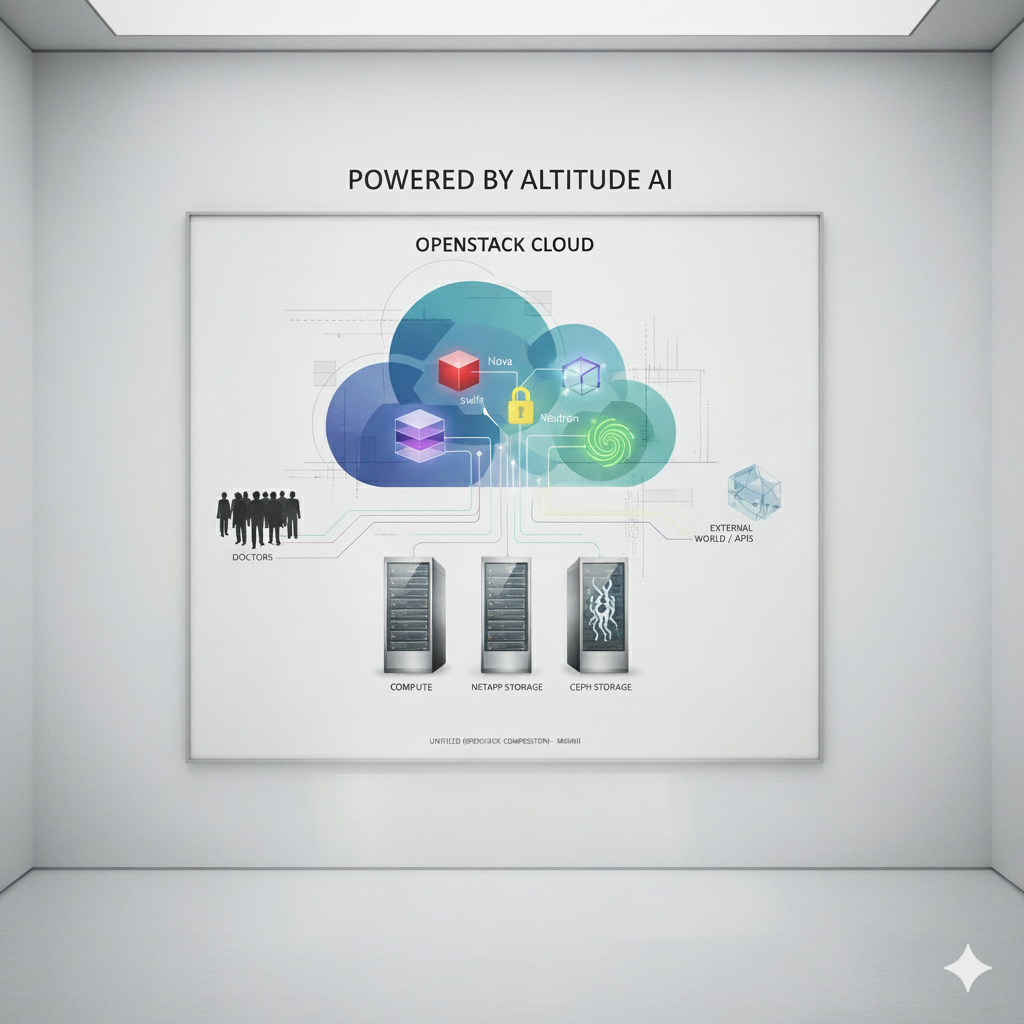
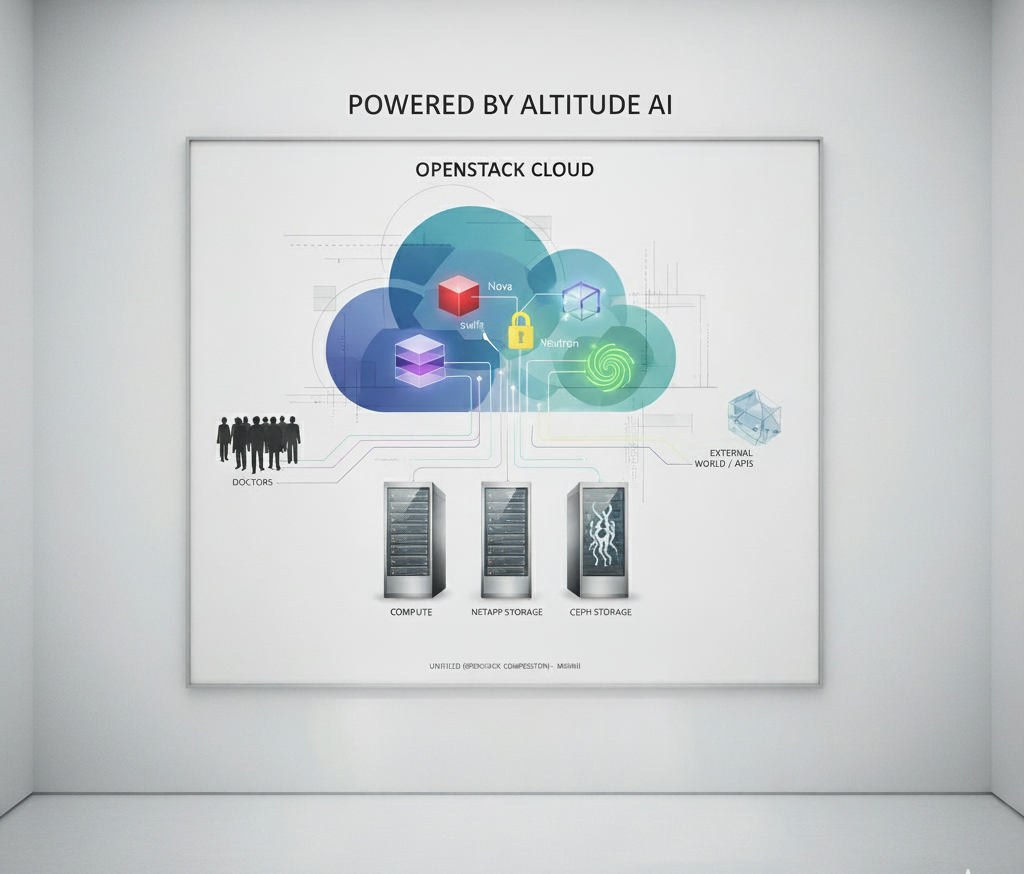
Remove dashes and crop art.png to remove Gemini watermark
- Replace all em dashes with commas in art page copy
- Crop art.png from 1024x1024 to 1024x874 to remove Google Gemini star
- Clean up typography for consistency across Technology section

🤖 Generated with [Claude Code](https://claude.com/claude-code)

diff --git a/3verest3/src/app/technology/art/page.tsx b/3verest3/src/app/technology/art/page.tsx
@@ -54,7 +54,7 @@ export default function TechnologyArt() {
             transition={{ duration: 1, delay: 0.2, ease: [0.19, 1, 0.22, 1] }}
             className="text-lg md:text-xl text-[#666] max-w-3xl mx-auto leading-relaxed font-light mb-20"
           >
-            We spend years perfecting how our infrastructure looks, feels, and performs — so maybe it's not such a wild thought.
+            We spend years perfecting how our infrastructure looks, feels, and performs, so maybe it's not such a wild thought.
             Our 3verest Cloud Capsules are engineered with precision, symmetry, and balance. The result is something that, in the right light,
             feels almost… artistic.
           </motion.p>
@@ -88,10 +88,10 @@ export default function TechnologyArt() {
             className="max-w-2xl mx-auto"
           >
             <p className="text-sm text-[#666] font-light leading-relaxed italic">
-              "The 3verest Stack" — a conceptual illustration of our OpenStack, NetApp, and Altitude AI architecture.
+              "The 3verest Stack", a conceptual illustration of our OpenStack, NetApp, and Altitude AI architecture.
             </p>
             <p className="text-sm text-[#999] font-light mt-2">
-              We like to joke that our technology is so elegant it could hang in a gallery. Just kidding — mostly.
+              We like to joke that our technology is so elegant it could hang in a gallery. Just kidding, mostly.
             </p>
           </motion.div>
         </div>
@@ -134,7 +134,7 @@ export default function TechnologyArt() {
             className="space-y-6 text-base md:text-lg text-[#666] leading-relaxed font-light"
           >
             <p>
-              Every 3verest region, capsule, and node is a product of deliberate design — from power symmetry and cooling flow
+              Every 3verest region, capsule, and node is a product of deliberate design, from power symmetry and cooling flow
               to orchestration logic and AI management.
             </p>
 
@@ -143,7 +143,7 @@ export default function TechnologyArt() {
             </p>
 
             <p className="text-[#444] font-normal">
-              Because in healthcare, elegance isn't aesthetic — it's reliability made visible.
+              Because in healthcare, elegance isn't aesthetic, it's reliability made visible.
             </p>
           </motion.div>
         </div>
